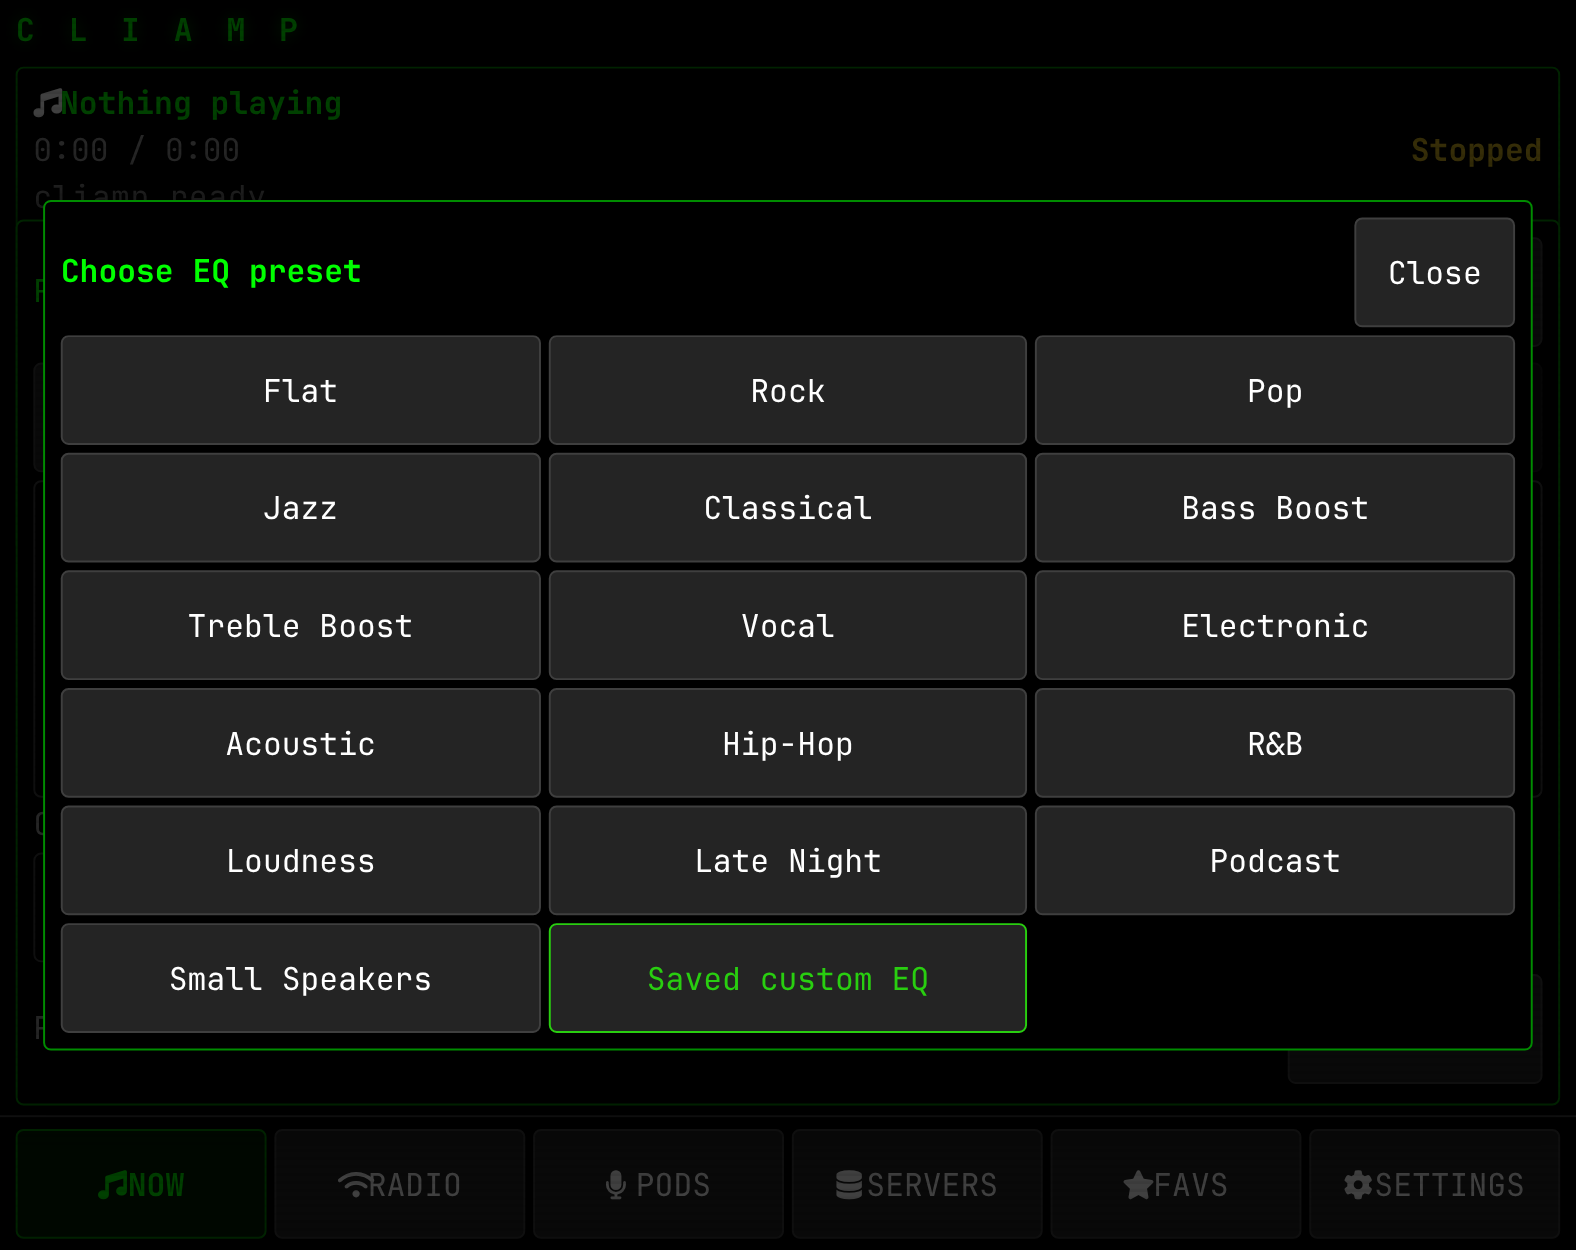
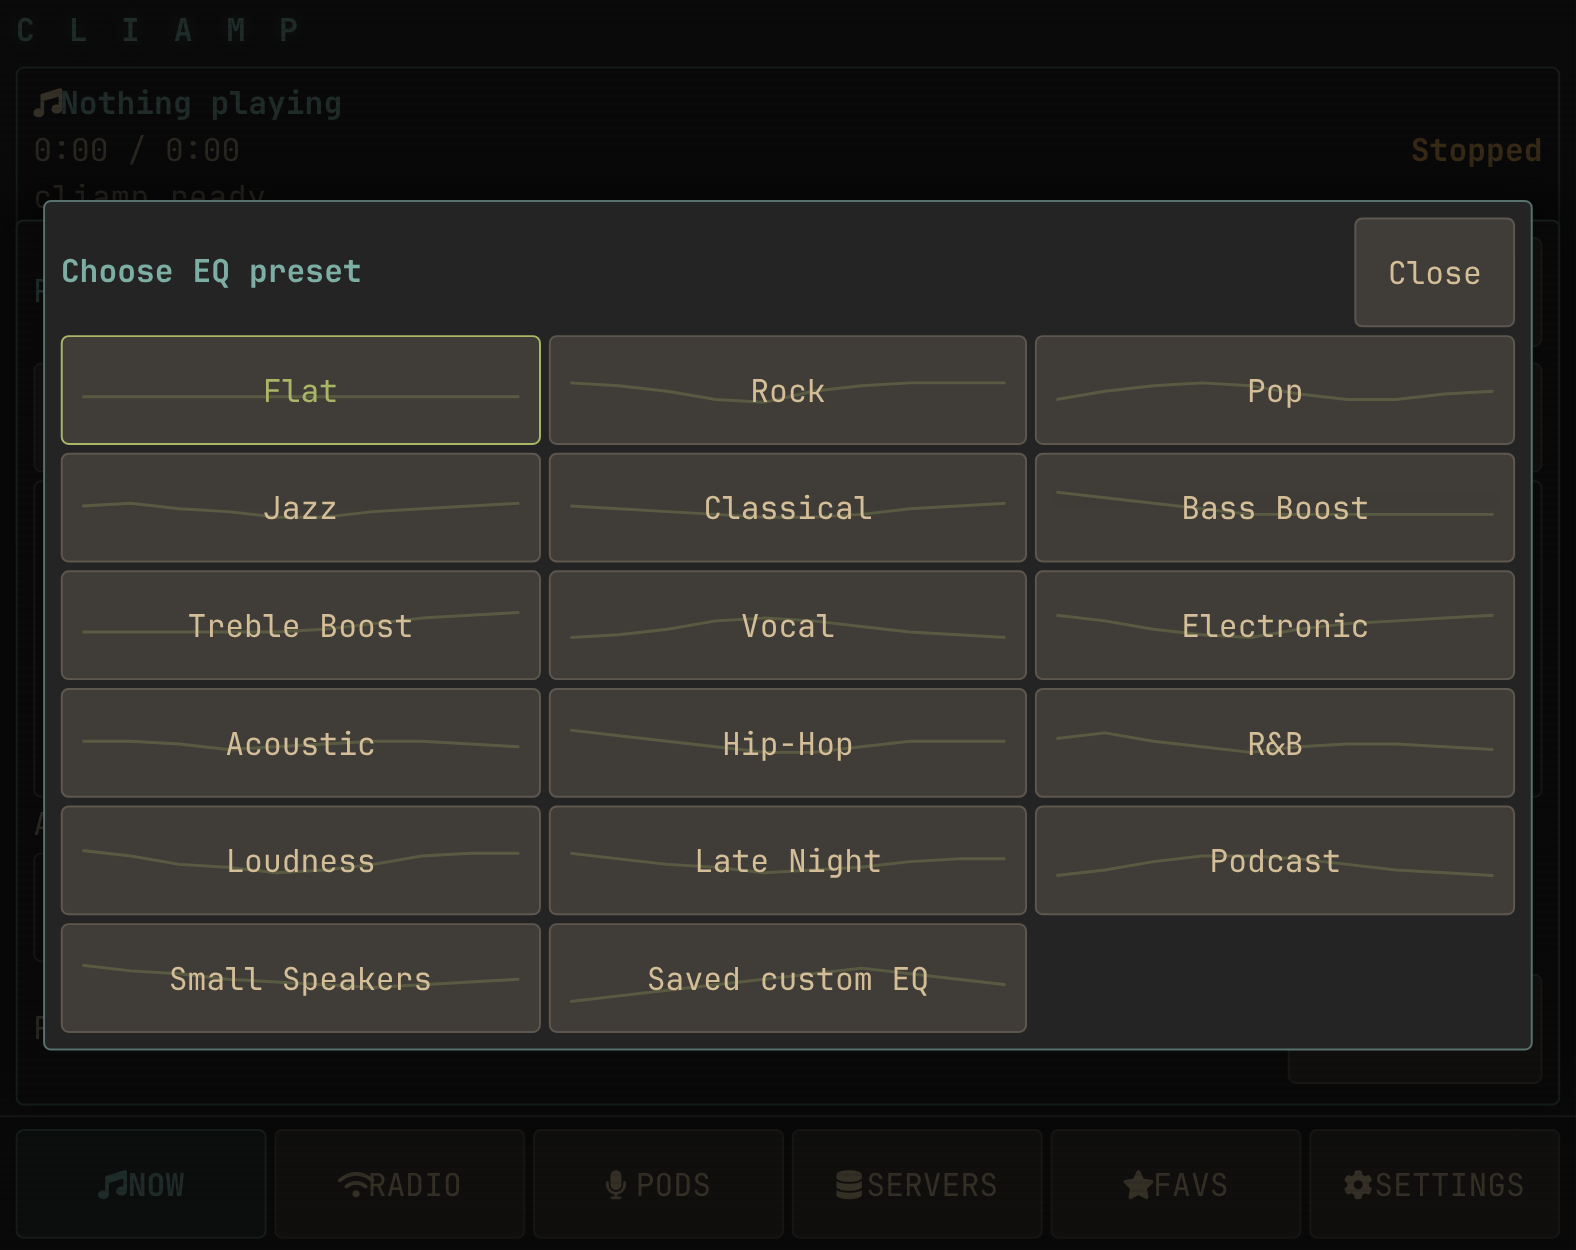
Preview EQ preset gains with subtle curves on picker buttons

diff --git a/src/components/EqControls.tsx b/src/components/EqControls.tsx
@@ -1,5 +1,5 @@
 import { useEffect, useRef, useState } from "react";
-import { EQ_BANDS_HZ, EQ_MAX_DB, EQ_MIN_DB, EQ_PRESET_CYCLE } from "../core/eq";
+import { EQ_BANDS_HZ, EQ_MAX_DB, EQ_MIN_DB, EQ_PRESET_CYCLE, presetGains } from "../core/eq";
 import { usePlayerStore } from "../store/player";
 
 function PresetPicker({ onClose }: { onClose: () => void }) {
@@ -14,13 +14,20 @@ function PresetPicker({ onClose }: { onClose: () => void }) {
         <button onClick={close} aria-label="Close EQ presets" autoFocus>Close</button>
       </div>
       <div className="eq-preset-list">
-        {[...EQ_PRESET_CYCLE, "Custom"].map((name) => (
-          <button key={name} disabled={name === "Custom" && !s.customEqGains}
-            aria-pressed={s.eqPreset === name && (name !== "Custom" || s.customEqGains?.every((gain, i) => gain === s.eqGains[i]))}
-            onClick={() => { s.applyPreset(name); close(); }}>
-            {name === "Custom" ? "Saved custom EQ" : name}
-          </button>
-        ))}
+        {[...EQ_PRESET_CYCLE, "Custom"].map((name) => {
+          const gains = name === "Custom" ? s.customEqGains : presetGains(name);
+          const points = gains?.map((gain, i) => `${i * 100 / (gains.length - 1)},${16 - gain * 14 / EQ_MAX_DB}`).join(" ");
+          return (
+            <button key={name} disabled={name === "Custom" && !s.customEqGains}
+              aria-pressed={s.eqPreset === name && (name !== "Custom" || s.customEqGains?.every((gain, i) => gain === s.eqGains[i]))}
+              onClick={() => { s.applyPreset(name); close(); }}>
+              {points && <svg className="eq-preset-curve" viewBox="0 0 100 32" preserveAspectRatio="none" aria-hidden="true" focusable="false">
+                <polyline points={points} vectorEffect="non-scaling-stroke" />
+              </svg>}
+              <span className="eq-preset-name">{name === "Custom" ? "Saved custom EQ" : name}</span>
+            </button>
+          );
+        })}
       </div>
     </dialog>
   );

diff --git a/src/styles/theme.css b/src/styles/theme.css
@@ -789,7 +789,19 @@ select {
 .eq-picker-header { position: sticky; top: 0; background: var(--bg-sunken); padding-bottom: var(--gap-sm); }
 .eq-picker-header h2 { margin: 0; font-size: inherit; color: var(--text-accent); }
 .eq-preset-list { display: grid; grid-template-columns: repeat(3, minmax(0, 1fr)); gap: var(--gap-sm); }
-.eq-preset-list button { min-width: 0; min-height: var(--tap-min); }
+.eq-preset-list button { position: relative; overflow: hidden; min-width: 0; min-height: var(--tap-min); }
+.eq-preset-curve {
+  position: absolute;
+  left: 10px;
+  bottom: 4px;
+  width: calc(100% - 20px);
+  height: 72%;
+  color: var(--playing);
+  opacity: 0.24;
+  pointer-events: none;
+}
+.eq-preset-curve polyline { fill: none; stroke: currentColor; stroke-width: 1.5; stroke-linecap: round; stroke-linejoin: round; }
+.eq-preset-name { position: relative; }
 .eq-preset-list button[aria-pressed="true"] { border-color: var(--playing); color: var(--playing); }
 @media (max-width: 560px) {
   .eq-bands { grid-template-columns: repeat(5, minmax(0, 1fr)); }
